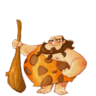
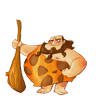
new base image for own armies, newly created image for the army

diff --git a/client/app/assets/javascripts/awe/UI/armyview.js b/client/app/assets/javascripts/awe/UI/armyview.js
@@ -89,8 +89,9 @@ AWE.UI = (function(module) {
       _poleShape.setFrame(AWE.Geometry.createRect(46, 12, 2, 84));
       this.addChild(_poleShape);       */
       
+      var baseImage = army.isOwn() ? AWE.UI.ImageCache.getImage('map/army/base/own') : AWE.UI.ImageCache.getImage('map/army/base/other')
       _baseImage = AWE.UI.createImageView();
-      _baseImage.initWithControllerAndImage(controller, AWE.UI.ImageCache.getImage('map/army/base'));
+      _baseImage.initWithControllerAndImage(controller, baseImage);
       _baseImage.setFrame(AWE.Geometry.createRect(-16, 9, 96, 96));
       _baseImage.onClick = that.onClick;
       _baseImage.onMouseOver = that.onMouseOver;
